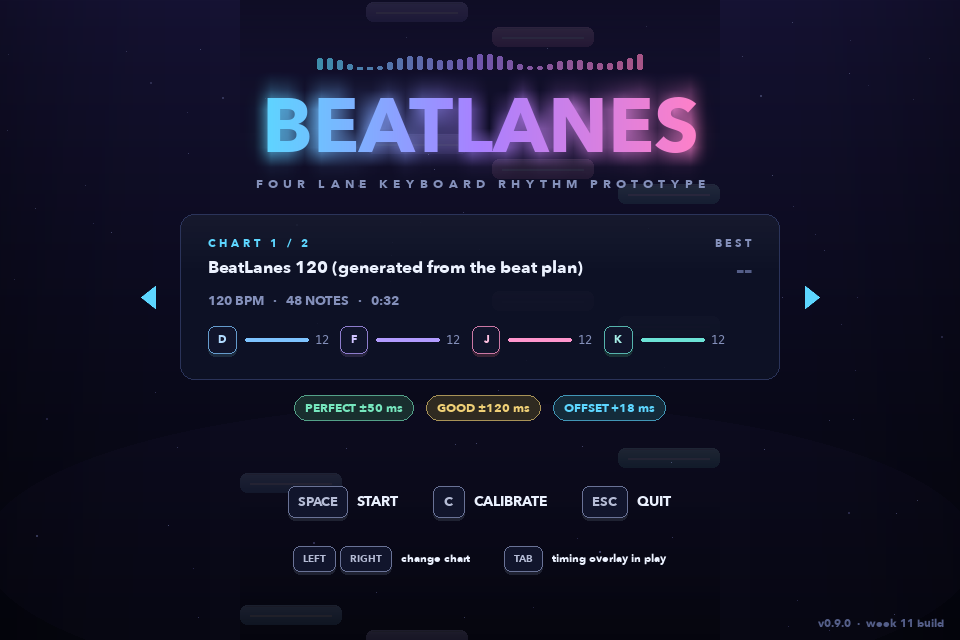
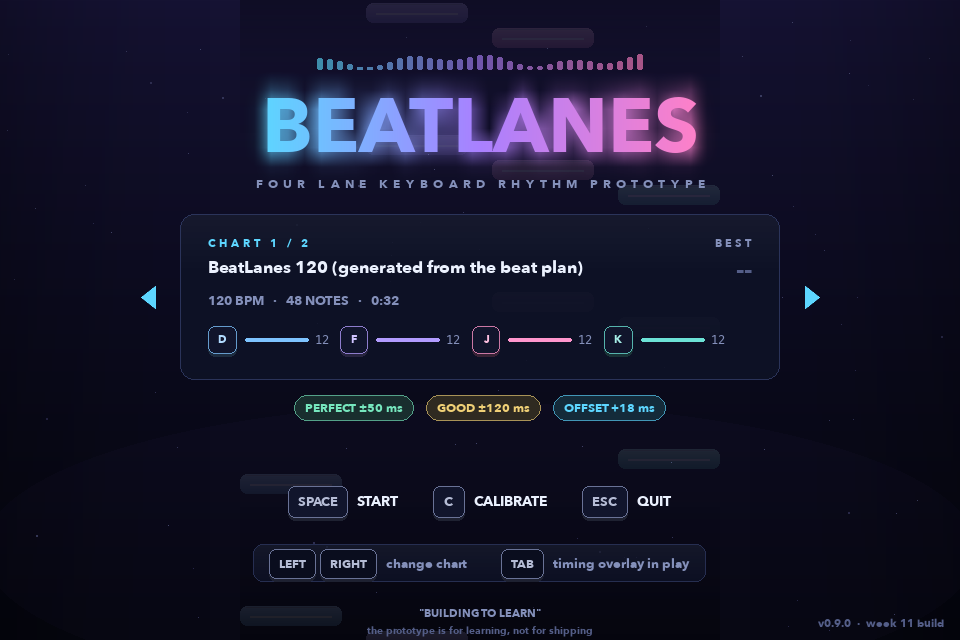
redesign the title key hints: the second row was 10px caps in the dimmest grey, sitting right on the drifting notes and the key beams, so on a real screen the words were unreadable. now 12px caps on the darker highway colour with a panel strip behind the whole row. also added the week 11 line from c

Changed region(s): [[0.2812, 0.8438, 0.5, 0.9062], [0.375, 0.9375, 0.625, 1.0], [0.5312, 0.8438, 0.7188, 0.9062]]

diff --git a/beatlanes/render.py b/beatlanes/render.py
@@ -636,6 +636,7 @@ def keycap(  # one keyboard key, drawn the same on every screen
     size: int = 13,  # label size
     tint: Optional[Colour] = None,  # lane keys get their lane colour
     lit: float = 0.0,  # 0 resting, 1 pressed
+    dim: bool = False,  # secondary caps sit darker so their letters still read over busy backgrounds
 ) -> pygame.Rect:  # where it went
     width = _keycap_width(label, size)  # fitted to the label
     height = size * 2 + 6  # tall enough for the label and the shadow
@@ -643,7 +644,8 @@ def keycap(  # one keyboard key, drawn the same on every screen
     accent = tint or config.TEXT_MUTED  # outline colour
     pygame.draw.rect(surface, _darken(accent, 0.8), rect.move(0, 3), border_radius=7)  # the shadow under the cap
     pressed = rect.move(0, int(2 * lit))  # a pressed key sinks a little
-    face = _lerp_colour(config.RECEPTOR_FILL, _darken(accent, 0.35), lit)  # the cap top
+    base = config.HIGHWAY if dim else config.RECEPTOR_FILL  # secondary caps use the darkest panel colour
+    face = _lerp_colour(base, _darken(accent, 0.35), lit)  # the cap top
     pygame.draw.rect(surface, face, pressed, border_radius=7)  # the cap
     pygame.draw.rect(surface, _lerp_colour(_darken(accent, 0.35), accent, max(lit, 0.4)), pressed, width=1, border_radius=7)  # its outline
     label_colour = _lerp_colour(_lighten(accent, 0.4), (255, 255, 255), lit)  # the letter
@@ -658,6 +660,7 @@ def hint_row(  # a centred row of [KEY] action pairs
     y: int,  # top of the caps
     size: int = 13,  # label size
     alpha: int = 255,  # the action words can pulse
+    dim: bool = False,  # secondary rows read better dark with the brighter word colour
 ) -> None:  # draws, returns nothing
     gap_keys, gap_label, gap_items = 4, 9, 34  # spacing between caps, before the word, between pairs
     widths = []  # each pair's width, measured before drawing so the row can centre
@@ -665,12 +668,13 @@ def hint_row(  # a centred row of [KEY] action pairs
         caps = sum(_keycap_width(key, size) for key in keys) + gap_keys * (len(keys) - 1)  # the caps
         widths.append(caps + gap_label + text_width(action, size + 1, bold=True))  # caps plus the word
     x = centre_x - (sum(widths) + gap_items * (len(items) - 1)) / 2.0  # start so the whole row is centred
+    word_colour = config.TEXT_MUTED if dim else config.TEXT  # the quieter colour for the secondary row
     for (keys, action), width in zip(items, widths):  # draw
         cursor = x  # pen for this pair
         for key in keys:  # one cap per key
-            cursor = keycap(surface, key, (int(cursor), y), size=size).right + gap_keys  # next cap goes after this one
+            cursor = keycap(surface, key, (int(cursor), y), size=size, dim=dim).right + gap_keys  # next cap goes after this one
         word_y = y + (size * 2 + 6 - font(size + 1, bold=True).get_height()) // 2  # vertically centred on the caps
-        text(surface, action, (cursor - gap_keys + gap_label, word_y), size=size + 1, colour=config.TEXT, bold=True, alpha=alpha)  # the word, beside the caps
+        text(surface, action, (cursor - gap_keys + gap_label, word_y), size=size + 1, colour=word_colour, bold=True, alpha=alpha)  # the word, beside the caps
         x += width + gap_items  # next pair
 
 
@@ -1198,7 +1202,18 @@ def draw_title(  # the waiting screen
     extra = [(("TAB",), "timing overlay in play")]  # always true
     if picker:  # only worth saying when there is a choice
         extra.insert(0, (("LEFT", "RIGHT"), "change chart"))  # arrows first
-    hint_row(surface, extra, centre_x, 546, size=10)  # quieter second row
+    # the second row used to be 10px caps in the dimmest colour, sitting right
+    # on the drifting notes and the key beams - on a real screen the words
+    # vanished. now 12px on a darker cap with a strip of highway behind the
+    # whole row, so the letters always have a quiet background to sit on
+    row_sizes = [text_width(action, 13, bold=True) + sum(_keycap_width(key, 12) for key in keys) + 4 * (len(keys) - 1) + 9 for keys, action in extra]  # measure before the strip
+    strip = pygame.Rect(int(centre_x - (sum(row_sizes) + 34 * (len(extra) - 1)) / 2.0) - 16, 544, int(sum(row_sizes) + 34 * (len(extra) - 1)) + 32, 38)  # behind the caps and words
+    panel(surface, strip, alpha=205, radius=10)  # the quiet strip
+    hint_row(surface, extra, centre_x, 549, size=12, dim=True)  # the redesigned second row
+    # the week 11 reminder from class, in the professor's words: the point of
+    # the prototype is to learn, not to ship a commercial product
+    text(surface, '"BUILDING TO LEARN"', (centre_x, 606), size=11, colour=config.TEXT_MUTED, bold=True, align="center")  # the phrase itself
+    text(surface, "the prototype is for learning, not for shipping", (centre_x, 624), size=10, colour=config.TEXT_DIM, align="center")  # what it means
     text(surface, f"v{__version__}  ·  week 11 build", (config.WINDOW_WIDTH - 16, config.WINDOW_HEIGHT - 24), size=11, colour=config.TEXT_DIM, align="right")  # build tag, bottom right
 
 
